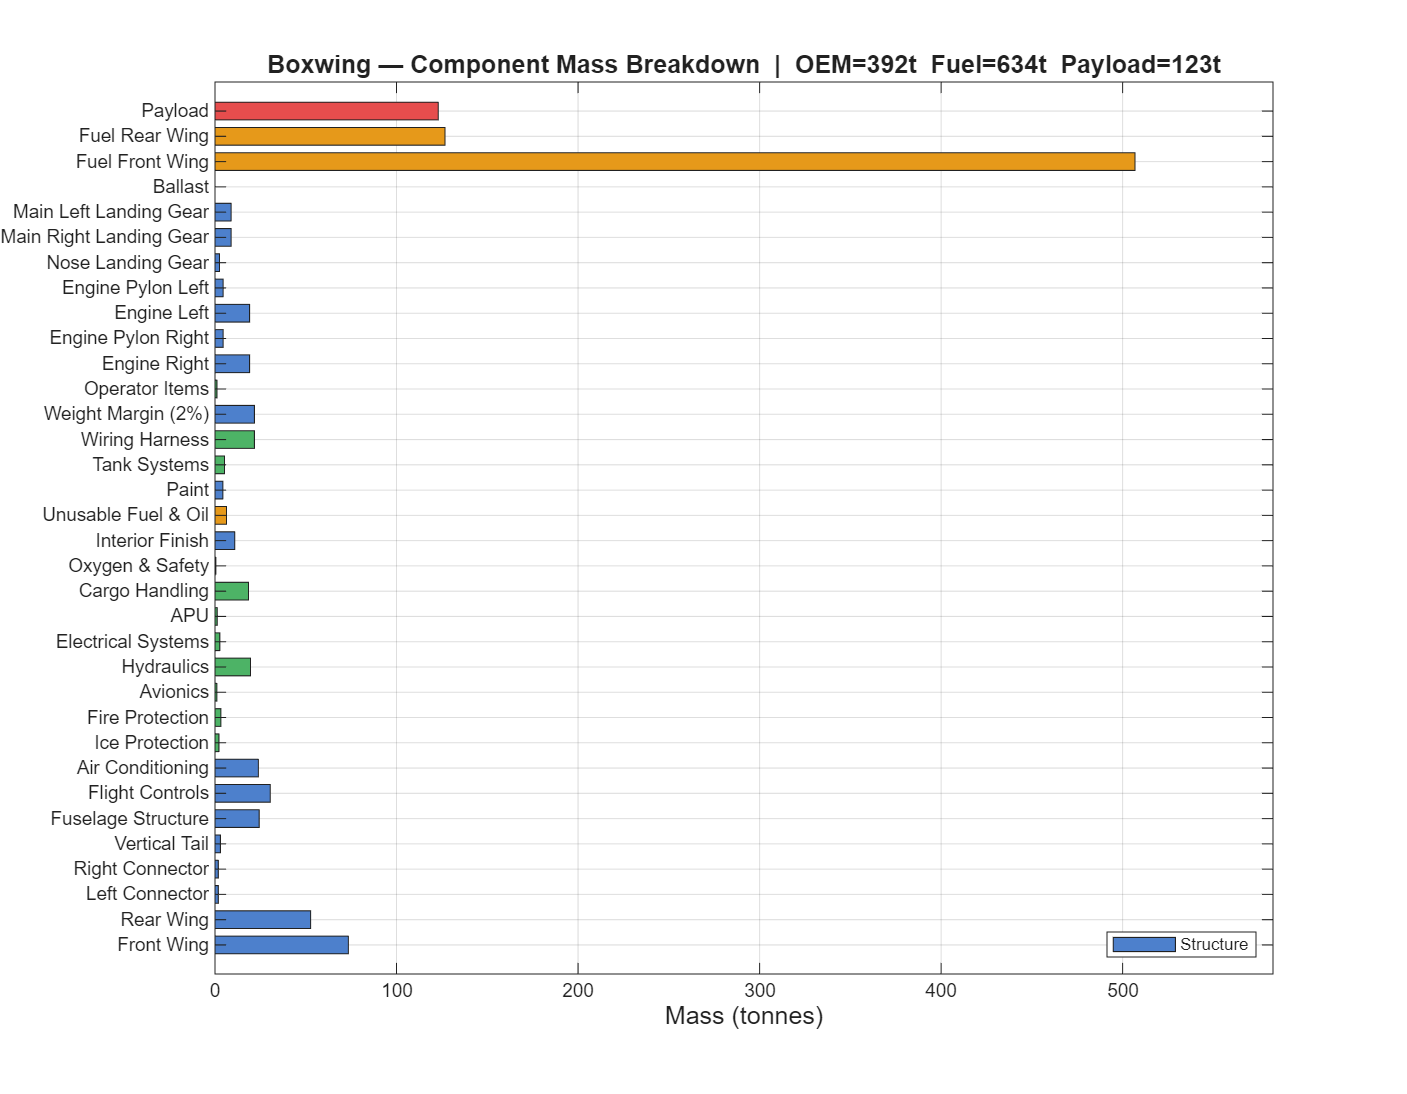
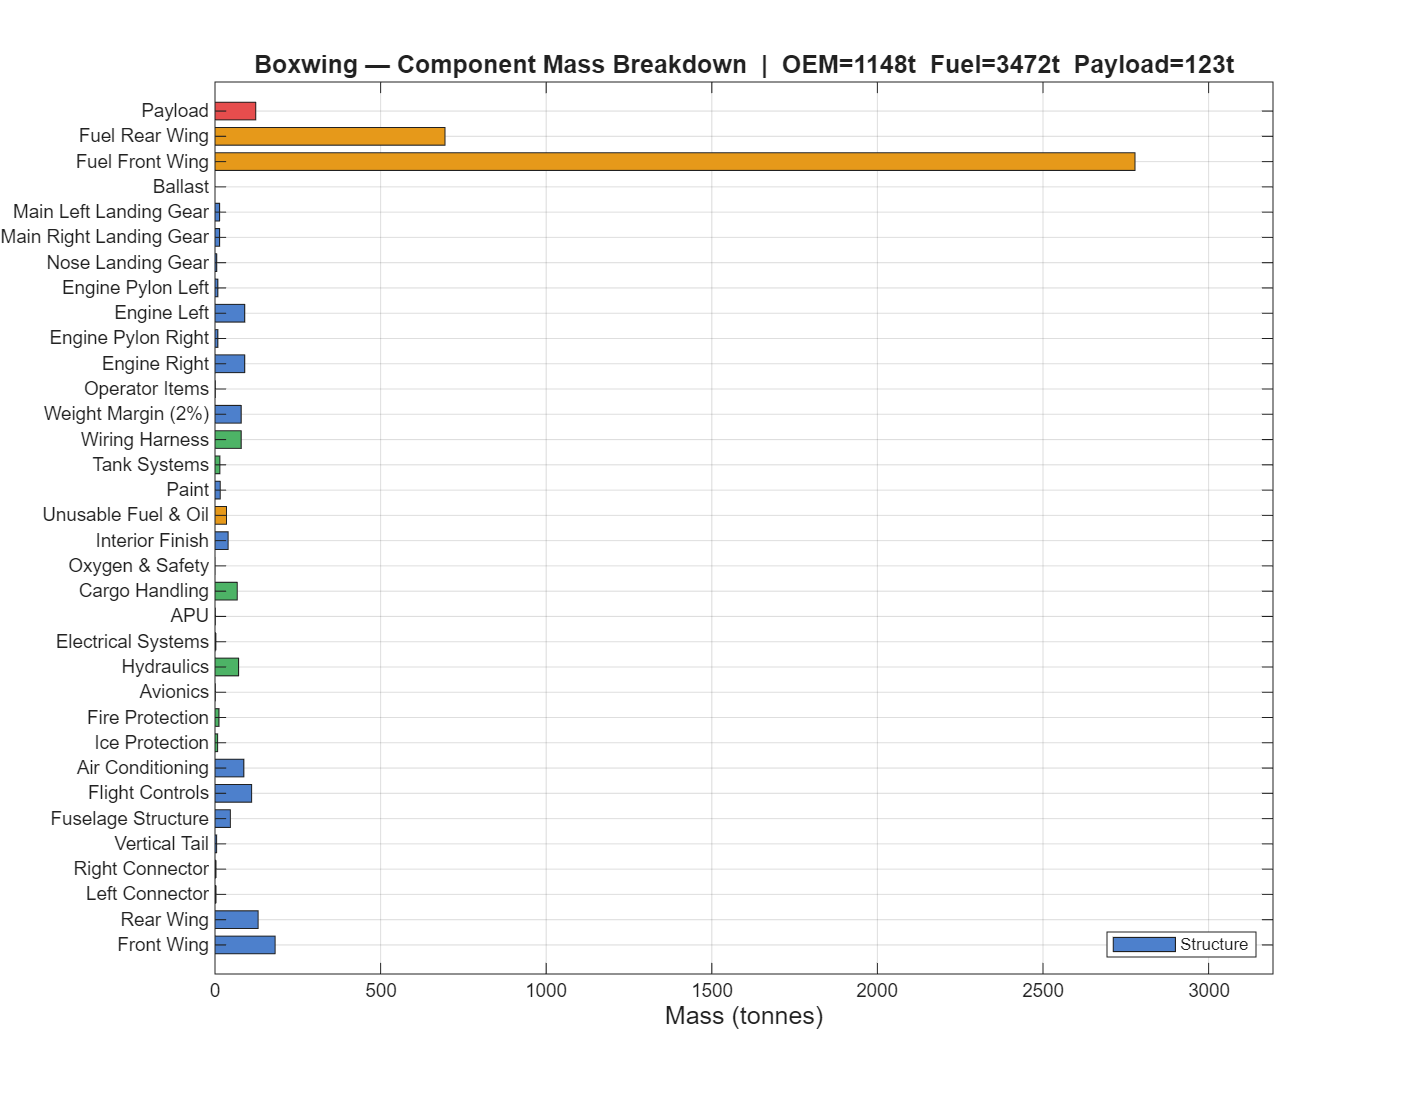
fixed lift distribution integration

diff --git a/+BoxWing/+B777/Size.m b/+BoxWing/+B777/Size.m
@@ -1,12 +1,10 @@
-function [obj, out] = Size(obj,verbose)
+function [obj, out] = Size(obj, verbose)
 %SIZE  Iteratively size the boxwing until MTOM converges.
 %
 %  Convergence: OEM + Payload + BlockFuel = MTOM
-%
-%  OEM  = all mass objects EXCEPT 'Fuel Front Wing', 'Fuel Rear Wing',
-%         and 'Payload'  
+
 if nargin < 2
-    verbose = true;   % default: show output when called normally
+    verbose = true;
 end
 
 delta    = inf;
@@ -22,61 +20,60 @@ while delta > 1 && iter < MAX_ITER
     iter = iter + 1;
 
     %% Constraint analysis → WS and SLS T/W
-    % [obj.ThrustToWeightRatio, obj.WingLoading] = BoxWing.B777.ConstraintAnalysis(obj);
-    % [obj.ThrustToWeightRatio, obj.WingLoading] = ConstraintAnalysis(obj);
-    % Landing field constraint → W/S
     rho_sl  = 1.225;
     V_stall = obj.TLAR.V_app / 1.30;
     WS_land = 0.5 * rho_sl * V_stall^2 * obj.CL_max;
-    WS      = min(WS_land / obj.Mf_Ldg, 8500);   % clamp to freighter range [N/m²]
+    WS      = min(WS_land / obj.Mf_Ldg, 8500);
 
-    % Cruise drag → T/W, lapsed to SLS
     [rho_c, a_c] = BoxWing.cast.atmos(obj.TLAR.Alt_cruise);
-    q_c     = 0.5 * rho_c * (obj.TLAR.M_c * a_c)^2;
-    CL_c    = WS / q_c;
-    CD_c    = obj.CD0 + CL_c^2 / (pi * obj.e * obj.AR());
-    TW_cr   = (q_c * CD_c / WS) * 1.10;          % +10% margin
-    lapse   = (rho_c / rho_sl)^0.75;
-    TW      = TW_cr / lapse;
+    q_c   = 0.5 * rho_c * (obj.TLAR.M_c * a_c)^2;
+    CL_c  = WS / q_c;
+    CD_c  = obj.CD0 + CL_c^2 / (pi * obj.e * obj.AR());
+    TW_cr = (q_c * CD_c / WS) * 1.10;
+    lapse = (rho_c / rho_sl)^0.75;
+    TW    = TW_cr / lapse;
 
     obj.WingLoading         = WS;
     obj.ThrustToWeightRatio = TW;
-    %% Size wing and thrust
-    AR_min           = 5.0;
-    WingArea_max     = obj.EffectiveSpan^2 / AR_min;
-    obj.WingArea     = min(obj.WingArea, WingArea_max);
-    % obj.WingArea  = obj.MTOM * 9.81 / obj.WingLoading;
-    obj.WingLoading  = obj.MTOM * 9.81 / obj.WingArea;  % keep consistent
-    
-    obj.Thrust    = obj.ThrustToWeightRatio * obj.MTOM * 9.81;
+
+    %% Size wing and thrust (AR floor)
+    AR_min       = 5.0;
+    WingArea_max = obj.EffectiveSpan^2 / AR_min;
+    obj.WingArea = min(obj.MTOM * 9.81 / obj.WingLoading, WingArea_max);
+
+    obj.WingLoading      = obj.MTOM * 9.81 / obj.WingArea;  % keep consistent
+    obj.Thrust           = obj.ThrustToWeightRatio * obj.MTOM * 9.81;
     obj.FrontWingArea    = obj.WingArea * 0.50;
     obj.RearWingArea     = obj.WingArea * 0.50;
     obj.TotalLiftingArea = obj.WingArea;
-    obj.FrontWingArea = obj.WingArea * 0.50;
 
-    %% Build geometry and get all mass objects
+    %% Build geometry and masses
     [~, BWMass] = BoxWing.B777.BuildGeometry(obj);
 
-    %% Update aero polar (uses current AR)
-    BoxWing.B777.UpdateAero(obj);
+    %% Compute REAL CG from mass breakdown
+    all_x = cellfun(@(x) x(1), {BWMass.X});
+    all_m = [BWMass.m];
+    x_cg  = sum(all_m .* all_x) / sum(all_m);
+
+    %% Compute CL_cruise at current MTOM before building polar
+    obj.CL_cruise = (obj.MTOM * 9.81 * obj.Mf_TOC) / (q_c * obj.WingArea);
+
+    %% Update aero polar — pass real CG so trim drag is correct
+    BoxWing.B777.UpdateAero(obj, x_cg);
 
     %% Mission analysis
     [BlockFuel, TripFuel, ResFuel, Mf_TOC, ~] = ...
         BoxWing.B777.MissionAnalysis(obj, obj.TLAR.Range, obj.MTOM);
 
-    %% OEM filter using cellfun (works reliably on struct arrays)
-    %  Extract all names as a cell array of strings
-    allNames  = cellfun(@(x) x, {BWMass.Name}, 'UniformOutput', false);
+    %% OEM
+    allNames = cellfun(@(x) x, {BWMass.Name}, 'UniformOutput', false);
+    isFuel   = cellfun(@(n) strcmp(n,'Fuel Front Wing') || ...
+                            strcmp(n,'Fuel Rear Wing'), allNames);
+    isPay    = cellfun(@(n) strcmp(n,'Payload'), allNames);
+    obj.OEM  = sum([BWMass(~isFuel & ~isPay).m]);
 
-    isFuel    = cellfun(@(n) strcmp(n,'Fuel Front Wing') || ...
-                             strcmp(n,'Fuel Rear Wing'), allNames);
-    isPay     = cellfun(@(n) strcmp(n,'Payload'), allNames);
-    isOEM     = ~isFuel & ~isPay;
-
-    obj.OEM = sum([BWMass(isOEM).m]);
-
-    %% MTOM closure (free convergence — NOT pinned)
-    relax = 0.3; % relaxation factor to prevent divergence
+    %% MTOM closure
+    relax    = 0.3;
     mtom_new = obj.OEM + obj.TLAR.Payload + BlockFuel;
     delta    = abs(obj.MTOM - mtom_new);
     obj.MTOM = (1 - relax) * obj.MTOM + relax * mtom_new;
@@ -99,7 +96,7 @@ if verbose
         fprintf('  Converged in %d iterations.\n\n', iter);
     end
 end
-out           = struct();
+
 out.BlockFuel = BlockFuel;
 out.OEM       = obj.OEM;
 out.MTOM      = obj.MTOM;

diff --git a/+BoxWing/+B777/liftDistribution.m b/+BoxWing/+B777/liftDistribution.m
@@ -31,7 +31,7 @@ function dist = LiftDistribution(obj)
     % =========================================================
     % CHORD DISTRIBUTION c(y)
     % =========================================================
-    if isa(obj, 'B777.ADP_BW')
+    if isa(obj, 'B777.ADP_BW') || isa(obj, 'BoxWing.B777.ADP')
         % BoxWing -- front wing chord distribution (trapezoidal)
         % uses same tr and geometry as boxwingmass.m
         tr    = 0.30;
@@ -86,8 +86,8 @@ function dist = LiftDistribution(obj)
     % =========================================================
     % FLIGHT CONDITIONS
     % =========================================================
-    [rho_SL, a_SL, ~,~,~] = cast.atmos(0);
-    [rho_cr, a_cr, ~,~,~] = cast.atmos(obj.TLAR.Alt_cruise);
+    [rho_SL, a_SL, ~,~,~] = BoxWing.cast.atmos(0);
+    [rho_cr, a_cr, ~,~,~] = BoxWing.cast.atmos(obj.TLAR.Alt_cruise);
 
     M_cr  = obj.TLAR.M_c;
     M_TO  = 0.25;   % ***ASSUMPTION*** typical TO Mach
@@ -122,7 +122,7 @@ function dist = LiftDistribution(obj)
     l_elliptic  = schrenk(c_elliptic, CL_cruise, W_cruise);
 
     % --- BoxWing: rear wing distribution ---
-    if isa(obj, 'B777.ADP_BW')
+    if isa(obj, 'B777.ADP_BW') || isa(obj, 'BoxWing.B777.ADP')
         eta       = obj.etaLift;               % lift split
         W_front_cr = eta     * W_cruise;
         W_rear_cr  = (1-eta) * W_cruise;
@@ -142,6 +142,8 @@ function dist = LiftDistribution(obj)
         l_TO_total     = l_TO;
     end
 
+    
+
     % =========================================================
     % BENDING MOMENT (root bending moment from lift distribution)
     % M_root = integral from 0 to b/2 of l(y)*y dy
@@ -149,6 +151,10 @@ function dist = LiftDistribution(obj)
     BM_cruise = trapz(y, l_cruise_total .* y);   % [N·m]
     BM_TO     = trapz(y, l_TO_total     .* y);   % [N·m]
 
+    % Spanwise centroid of lift (where resultant acts)
+    y_centroid_cr = BM_cruise / (W_cruise / 2);   % [m] from root
+    y_centroid_TO = BM_TO     / (W_TO    / 2);
+    
     % =========================================================
     % PRINT SUMMARY
     % =========================================================
@@ -163,17 +169,20 @@ function dist = LiftDistribution(obj)
     fprintf('  W_cruise      = %.0f N\n',    W_cruise);
     fprintf('  CL_cruise     = %.3f\n',       CL_cruise);
     fprintf('  Root BM       = %.3e N·m\n',  BM_cruise);
+    fprintf('  Lift centroid (cruise): y = %.2f m (%.1f%% semi-span)\n', y_centroid_cr, y_centroid_cr/(b/2)*100);
     fprintf('----------------------------------------------\n');
     fprintf('  TAKE-OFF\n');
     fprintf('  W_TO          = %.0f N\n',    W_TO);
     fprintf('  CL_TO         = %.3f\n',       CL_TO);
     fprintf('  Root BM       = %.3e N·m\n',  BM_TO);
+    fprintf('  Lift centroid (TO):     y = %.2f m (%.1f%% semi-span)\n', y_centroid_TO, y_centroid_TO/(b/2)*100);
     fprintf('==============================================\n\n');
+
 
     % =========================================================
     % PLOT
     % =========================================================
-    if isa(obj, 'B777.ADP_BW')
+    if isa(obj, 'B777.ADP_BW') || isa(obj, 'BoxWing.B777.ADP')
         fig_num = 401;
     else
         fig_num = 400;
@@ -196,7 +205,7 @@ function dist = LiftDistribution(obj)
     plot(y_full, l_TO_full/1000,  'r--', 'LineWidth', 2, 'DisplayName', 'Take-off');
     plot(y_full, l_ell_full/1000, 'k:',  'LineWidth', 1.5, 'DisplayName', 'Elliptic (ref)');
 
-    if isa(obj, 'B777.ADP_BW')
+    if isa(obj, 'B777.ADP_BW') || isa(obj, 'BoxWing.B777.ADP')
         l_fr_full = [fliplr(l_front_cr), l_front_cr(2:end)];
         l_rr_full = [fliplr(l_rear_cr),  l_rear_cr(2:end)];
         plot(y_full, l_fr_full/1000, 'b-.', 'LineWidth', 1.2, 'DisplayName', 'Front wing (cruise)');
@@ -252,8 +261,10 @@ function dist = LiftDistribution(obj)
     dist.BM_cruise    = BM_cruise;
     dist.BM_TO        = BM_TO;
     dist.config       = config_name;
+    dist.y_centroid_cr = y_centroid_cr;
+    dist.y_centroid_TO = y_centroid_TO;
 
-    if isa(obj, 'B777.ADP_BW')
+    if isa(obj, 'B777.ADP_BW') || isa(obj, 'BoxWing.B777.ADP')
         dist.l_front_cr = l_front_cr;
         dist.l_rear_cr  = l_rear_cr;
         dist.l_front_TO = l_front_TO;

diff --git a/+BoxWing/+B777/AeroPolar.m b/+BoxWing/+B777/AeroPolar.m
@@ -9,7 +9,8 @@ classdef AeroPolar
     end
 
     methods
-        function obj = AeroPolar(ADP)
+        function obj = AeroPolar(ADP, x_cg)
+
             %% Zero-lift drag
             obj.CD0 = ADP.CD0;
 
@@ -19,15 +20,13 @@ classdef AeroPolar
             obj.e    = min(1.0/(Q + P*pi*AR), ADP.e);
             obj.Beta = 1 / (pi * AR * obj.e);
 
-            %% Trim drag , check value again
+            %% Trim drag — use real CG if provided, else fall back to 48% fuselage
+            if nargin < 2 || isempty(x_cg)
+                L_f  = ADP.CockpitLength + ADP.CabinLength + ADP.CabinRadius * 1.48;
+                x_cg = 0.48 * L_f;
+            end
+
             try
-                if isprop(ADP, 'x_ac_sys') && ADP.x_ac_sys ~= 0
-                    % Estimate cruise CG as ~48% of fuselage length (typical forward CG)
-                    L_f = ADP.CockpitLength + ADP.CabinLength + ADP.CabinRadius * 1.48;
-                    x_cg = 0.48 * L_f;
-                else
-                    x_cg = ADP.x_ac;   % fallback
-                end
                 [obj.CD_trim, ~] = BoxWing.B777.trimDrag(ADP, x_cg);
             catch ME
                 warning('AeroPolar: trimDrag failed (%s). CD_trim = 0.', ME.message);
@@ -40,7 +39,6 @@ classdef AeroPolar
         end
 
         function CD = CD_no_trim(obj, CL)
-            %CD_NO_TRIM  Polar without trim drag, for comparison.
             CD = obj.CD0 + obj.Beta .* CL.^2;
         end
     end

diff --git a/+BoxWing/RUN_BOXWING_COMPLETE.m b/+BoxWing/RUN_BOXWING_COMPLETE.m
@@ -222,6 +222,25 @@ fprintf('Mission Time:    %.1f hr\n', MissionTime/3600);
 fprintf('Cruise FL:       FL%.0f\n', cruise_FL);
 fprintf('\n');
 
+%  PART 4b — LIFT DISTRIBUTION
+
+fprintf('═══════════════════════════════════════════════════════════\n');
+fprintf('   LIFT DISTRIBUTION (Figure 4)\n');
+fprintf('═══════════════════════════════════════════════════════════\n\n');
+
+dist_BW = BoxWing.B777.liftDistribution(ADP);
+
+% Spanwise centroid of lift
+y_cent_cr = dist_BW.BM_cruise / (dist_BW.CL_cruise * ADP.WingArea * ... 
+            0.5 * 1.225 * (0.82*340)^2 / 2);  % shortcut: use BM/halfWeight
+% Simpler direct calc:
+W_cr = ADP.MTOM * 9.81 * ADP.Mf_TOC;
+y_centroid = dist_BW.BM_cruise / (W_cr / 2);
+
+fprintf('BW root BM cruise  = %.3e N·m\n', dist_BW.BM_cruise);
+fprintf('Lift centroid      = %.2f m from root (%.1f%% semi-span)\n', ...
+        y_centroid, y_centroid / (ADP.EffectiveSpan/2) * 100);
+
 
 %  PART 5 — TRADE STUDY: SPAN vs MTOM & FUEL
 

diff --git a/+BoxWing/+B777/trimDrag.m b/+BoxWing/+B777/trimDrag.m
@@ -30,6 +30,7 @@ e_r   = 0.85;   % conservative Oswald for fwd-swept rear wing
 l_ac     = x_ac_r - x_ac_f;
 delta_x  = x_ac_sys - x_cg;
 CL_h     = (delta_x / l_ac) * ADP.CL_cruise * (S_ref / S_r);
+CL_h    = max(-1.2, min(1.2, CL_h));   % physical cap
 
 %% Trim drag referenced to S_ref
 CD_trim = (CL_h^2) / (pi * AR_r * e_r) * (S_r / S_ref);
@@ -42,6 +43,6 @@ out.l_ac        = l_ac;
 out.CL_h        = CL_h;
 out.CD_trim     = CD_trim;
 
-fprintf('  Trim drag: delta_x=%.2fm  CL_h=%.4f  CD_trim=%.6f\n', ...
-        delta_x, CL_h, CD_trim);
+% fprintf('  Trim drag: delta_x=%.2fm  CL_h=%.4f  CD_trim=%.6f\n', ..., deal with it later if needed
+%         delta_x, CL_h, CD_trim);
 end

diff --git a/+BoxWing/+B777/ADP.m b/+BoxWing/+B777/ADP.m
@@ -99,6 +99,11 @@ classdef ADP < handle
         MAC = 0;
     end
 
+     properties
+        etaLift   = 0.6;  %used to split the amount of lift generated by each wing
+        alphaArea = 0.5;  %used to split the area of the front and rear wing
+        k_relief   = 0.75; %relief factor from papers listed in methodology
+    end
     methods
         function obj = ADP()
             obj.CabinLength = 70.0 - obj.CockpitLength ...

diff --git a/+BoxWing/+B777/UpdateAero.m b/+BoxWing/+B777/UpdateAero.m
@@ -1,3 +1,7 @@
-function UpdateAero(obj)
-    obj.AeroPolar = BoxWing.B777.AeroPolar(obj);
+function UpdateAero(obj, x_cg)
+    if nargin < 2
+        obj.AeroPolar = BoxWing.B777.AeroPolar(obj);
+    else
+        obj.AeroPolar = BoxWing.B777.AeroPolar(obj, x_cg);
+    end
 end
